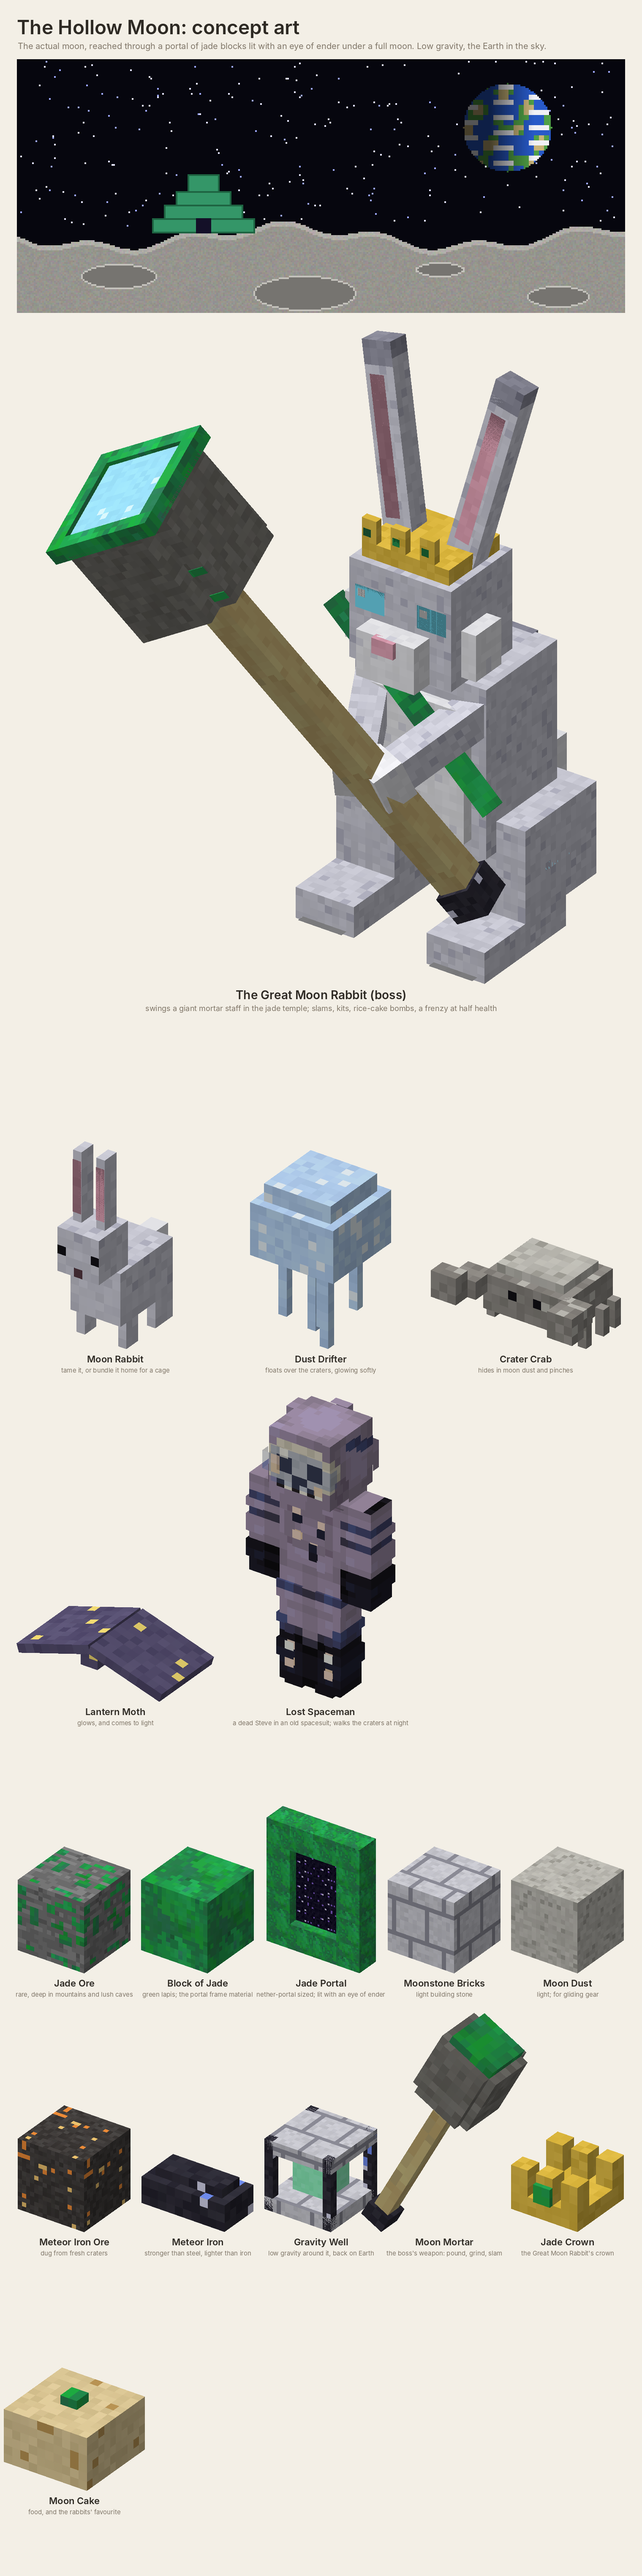
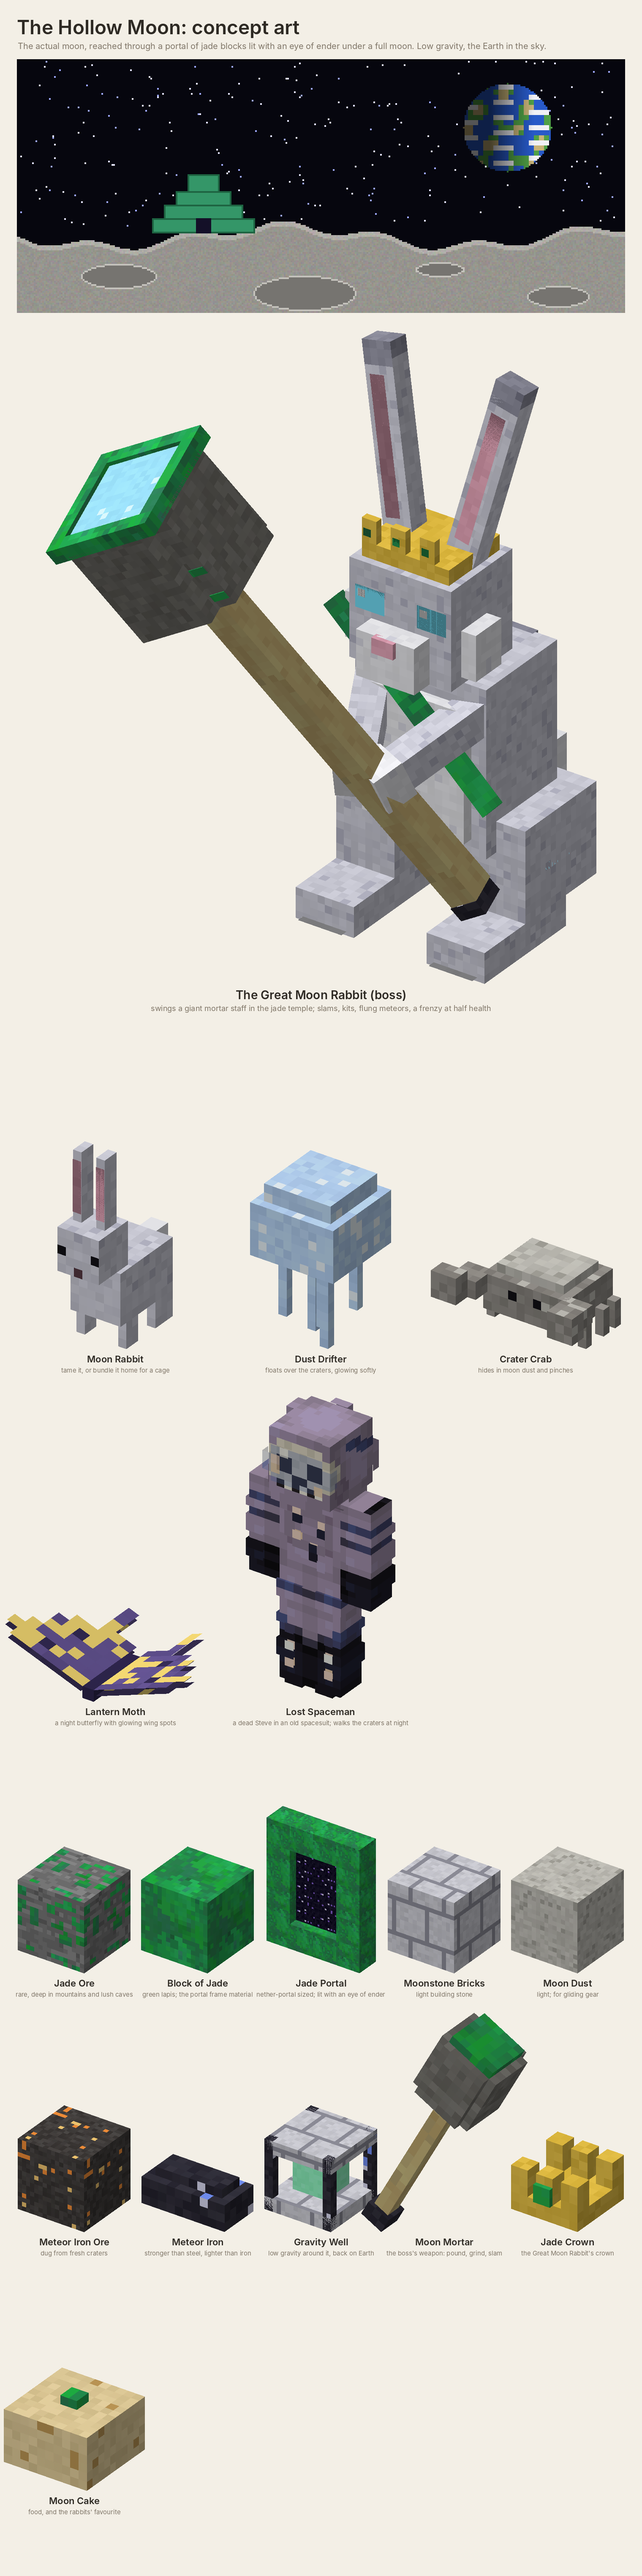
Moon concept: lantern moth as a butterfly variant, a slim meteor-iron cap on the staff, the boss flings meteors
Claude-Session: https://claude.ai/code/session_01M5QtgiQGYPBXfdb72XCowG

Changed region(s): [[0.0, 0.6216, 0.3377, 0.6837], [0.6754, 0.3108, 0.7675, 0.3729]]

diff --git a/tools/moon_concept.py b/tools/moon_concept.py
@@ -107,7 +107,7 @@ def great_rabbit_detailed():
         a = m.part([sgn * 7, 16, -3], (-1.15, sgn * 0.45, 0))
         m.box(SILVER, (-2, -1, -2), (4, 13, 4), part=a); m.box(WHITE_FUR, (-2.5, 11, -2.5), (5, 4, 5), part=a)
     st = m.part([0, 20, -15], (0.35, 0, -0.55))                                                       # the giant mortar staff, raised
-    m.box(WOOD, (-2, -30, -2), (4, 52, 4), part=st); m.box(METEOR, (-2.5, 18, -2.5), (5, 4, 5), part=st)   # haft, meteor-iron butt
+    m.box(WOOD, (-2, -30, -2), (4, 50, 4), part=st); m.box(METEOR, (-2.1, 20, -2.1), (4.2, 2.5, 4.2), part=st)   # haft, a simple meteor-iron cap
     for (w, d) in ((16, 11), (11, 16)): m.box(STONE_M, (-w / 2, -44, -d / 2), (w, 14, d), part=st)          # the mortar head
     for (x, z, w, d) in ((-8, -8, 16, 2), (-8, 6, 16, 2), (-8, -8, 2, 16), (6, -8, 2, 16)): m.box(JADE, (x, -45.5, z), (w, 2, d), part=st)
     m.box(MOON_GLOW, (-6, -45, -6), (12, 0.6, 12), part=st)
@@ -183,7 +183,7 @@ def ingot(): m = Model(13); m.box(METEOR, (-5, 20, -2.5), (10, 3, 5)); m.box(MET
 CREATURES = [("Moon Rabbit", "tame it, or bundle it home for a cage", moon_rabbit, 2.4),
              ("Dust Drifter", "floats over the craters, glowing softly", drifter, 2.4),
              ("Crater Crab", "hides in moon dust and pinches", crab, 2.4),
-             ("Lantern Moth", "glows, and comes to light", moth, 2.4),
+             ("Lantern Moth", "a night butterfly with glowing wing spots", moth, 2.4),
              ("Lost Spaceman", "a dead Steve in an old spacesuit; walks the craters at night", walker, 2.0)]
 THINGS = [("Jade Ore", "rare, deep in mountains and lush caves", lambda: cube(JADE_ORE), 1.2),
           ("Block of Jade", "green lapis; the portal frame material", lambda: cube(JADE), 1.2),
@@ -225,6 +225,20 @@ def earth_scene(w=360, h=150, seed=4):
     d.rectangle((tx - 4, ty - 8, tx + 4, ty), fill=(20, 16, 40))
     return im.resize((w * 4, h * 4), Image.NEAREST)
 
+def lantern_moth_texture():
+    """A butterfly variant: the luna moth's wings (butterfly_18) recoloured dusky violet, with glowing moon-gold spots."""
+    src = os.path.join(R.ROOT, "textures", "entity", "butterfly_18.png")
+    im = Image.open(src).convert("RGBA"); px = im.load(); rnd = random.Random(31)
+    for y in range(im.height):
+        for x in range(im.width):
+            r, g, b, a = px[x, y]
+            if not a: continue
+            l = (r + g + b) / 3
+            px[x, y] = (int(40 + l * 0.35), int(32 + l * 0.30), int(70 + l * 0.45), a)              # dusky violet
+            if l > 150 and rnd.random() < 0.35: px[x, y] = (255, 226, 120, a)                       # glowing spots on the pale parts
+    out = os.path.join(os.environ.get("TMPDIR", "/tmp"), "lantern_moth.png"); im.save(out)
+    return out
+
 def sheet(out):
     BG, INK, SUB = (243, 239, 230), (46, 42, 36), (128, 118, 104)
     big = great_rabbit_detailed().draw(2.1)
@@ -233,6 +247,8 @@ def sheet(out):
     if os.path.exists(skin):                       # the spaceman uses its real player-layout skin (tools/spaceman_skin.py)
         R.load_model = ORIG_LOAD
         crs = [(n, s, R.render("player", skin[:-4], 2.2) if n == "Lost Spaceman" else im) for n, s, im in crs]
+    R.load_model = ORIG_LOAD
+    crs = [(n, s, R.render("butterfly", lantern_moth_texture()[:-4], 3.2) if n == "Lantern Moth" else im) for n, s, im in crs]
     ths = [(n, s, f().draw(sc)) for n, s, f, sc in THINGS]
     port = portal().draw(0.62)
     scene = earth_scene()
@@ -247,7 +263,7 @@ def sheet(out):
     # boss with the portal beside it
     c.paste(big, ((W - big.width) // 2, y), big)
     d.text((W // 2, y + big.height + 24), "The Great Moon Rabbit (boss)", font=R.font(28, True), fill=INK, anchor="mm")
-    d.text((W // 2, y + big.height + 56), "swings a giant mortar staff in the jade temple; slams, kits, rice-cake bombs, a frenzy at half health", font=R.font(18), fill=SUB, anchor="mm")
+    d.text((W // 2, y + big.height + 56), "swings a giant mortar staff in the jade temple; slams, kits, flung meteors, a frenzy at half health", font=R.font(18), fill=SUB, anchor="mm")
     y += big.height + 100
     for k, (n, s, im) in enumerate(crs):
         x = 30 + (k % 3) * cw1; base = y + (k // 3) * ch1 + ch1 - 70

diff --git a/ROADMAP.md b/ROADMAP.md
@@ -249,7 +249,8 @@ something back to the overworld, so it's worth the trip. All in the same vanilla
       follows you home, or scoop it up in a bundle (4 to a bundle) and keep it in a cage like the chipmunks.
     - **Dust drifters:** jellyfish-like things that float over the craters.
     - **Crater crabs:** they hide in moon dust and pinch.
-    - **Lantern moths:** they glow and come to light.
+    - **Lantern moths:** a night butterfly variant, dusky violet with glowing moon-gold wing spots. They come to
+      light, and fit in a bundle and the bird cage like the other butterflies.
     - **Lost spacemen:** dead Steves in old lavender spacesuits, their skulls grinning behind tinted glass
       visors (skin: docs/lost_spaceman_skin.png). They shamble across the craters at night, slow and floaty in the
       low gravity.
@@ -269,7 +270,7 @@ something back to the overworld, so it's worth the trip. All in the same vanilla
     giant mortar staff (a stone mortar on a long haft) as its weapon, a nod to the old moon-rabbit legends. It leaps around the arena:
     - Ground slams that throw you up in the low gravity.
     - It summons moon-rabbit kits.
-    - It throws glowing rice-cake bombs.
+    - It flings meteors at you: glowing rocks that crash down and leave small craters (with a little meteor iron in them).
     - At half health it goes into a frenzy.
     - Beat it for its **jade crown** and the **Moon Mortar**, a one-of-a-kind heavy weapon in the spirit of the
       mace: the rabbit's own mortar staff, shrunk to fit your hands.
